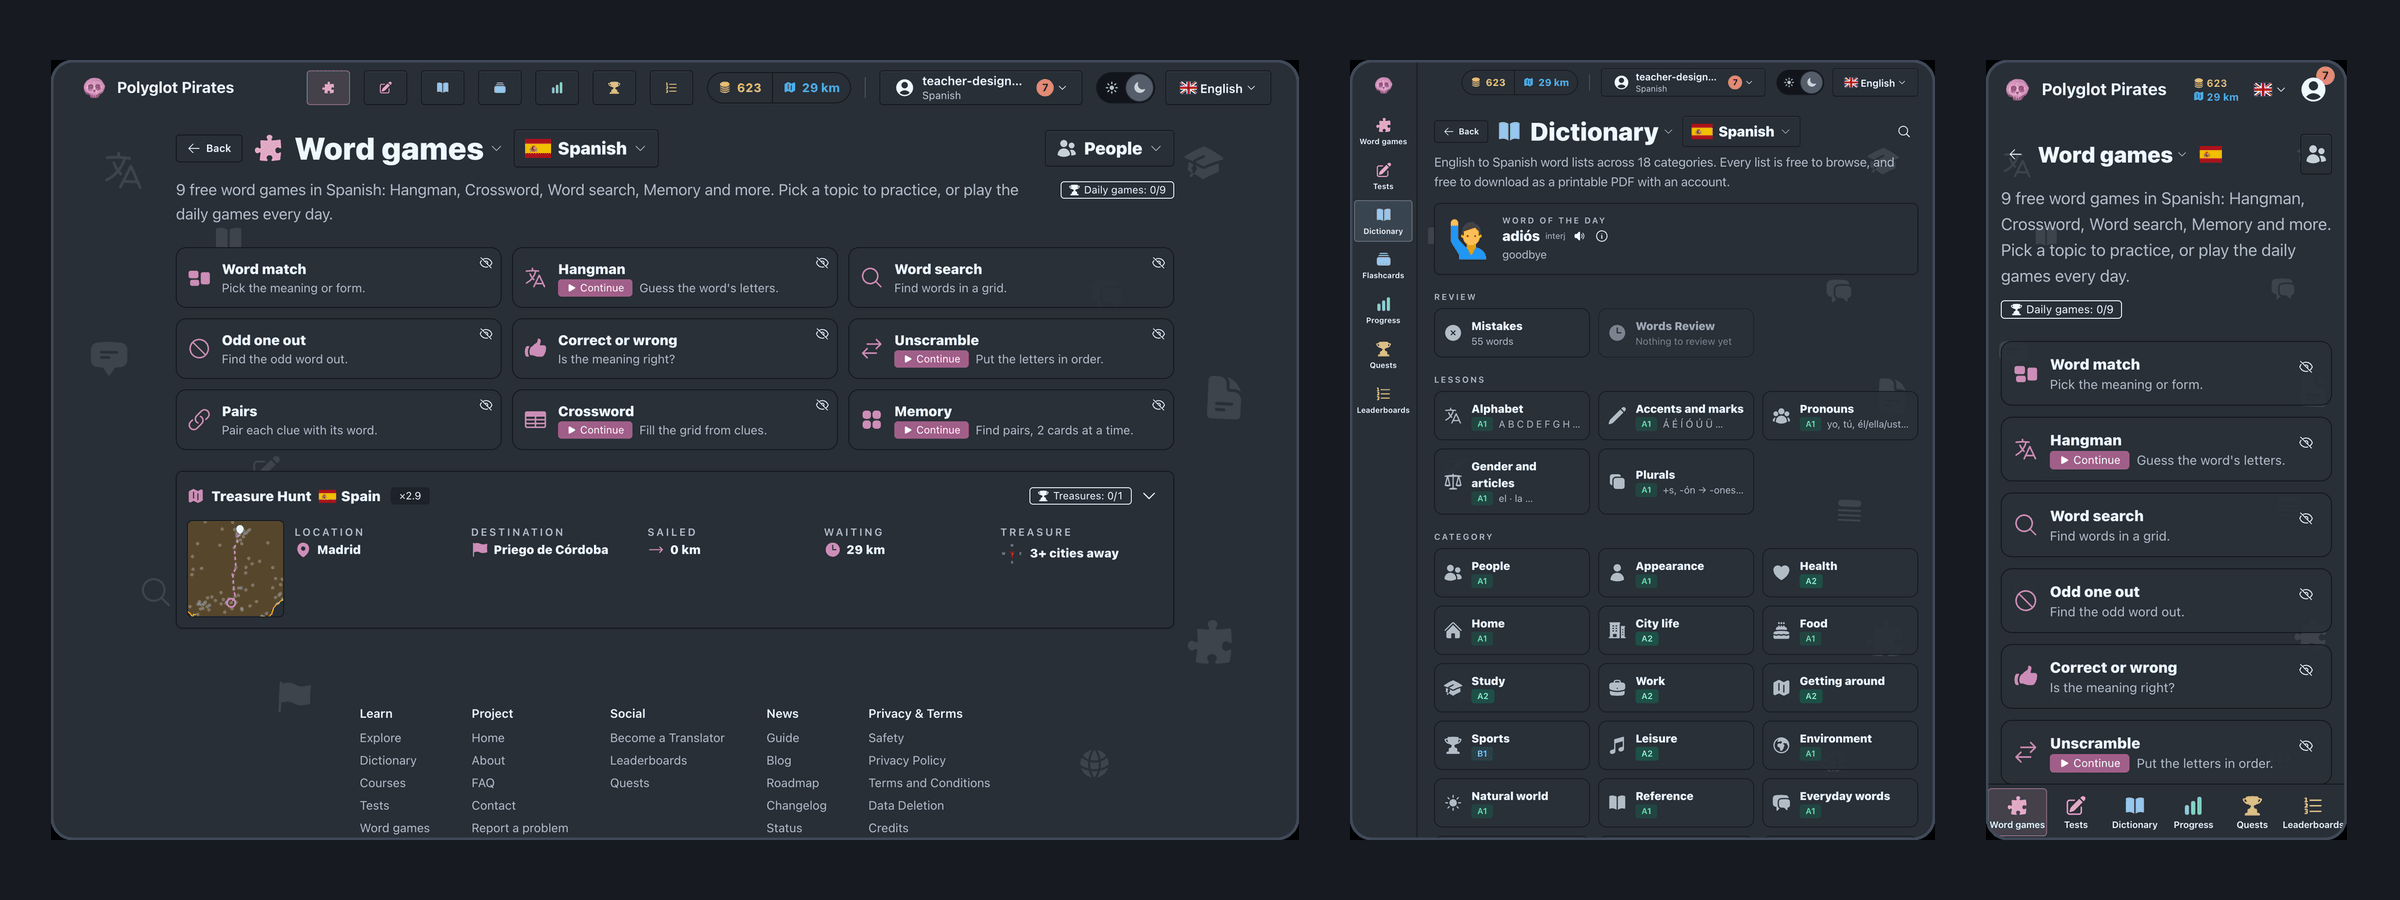
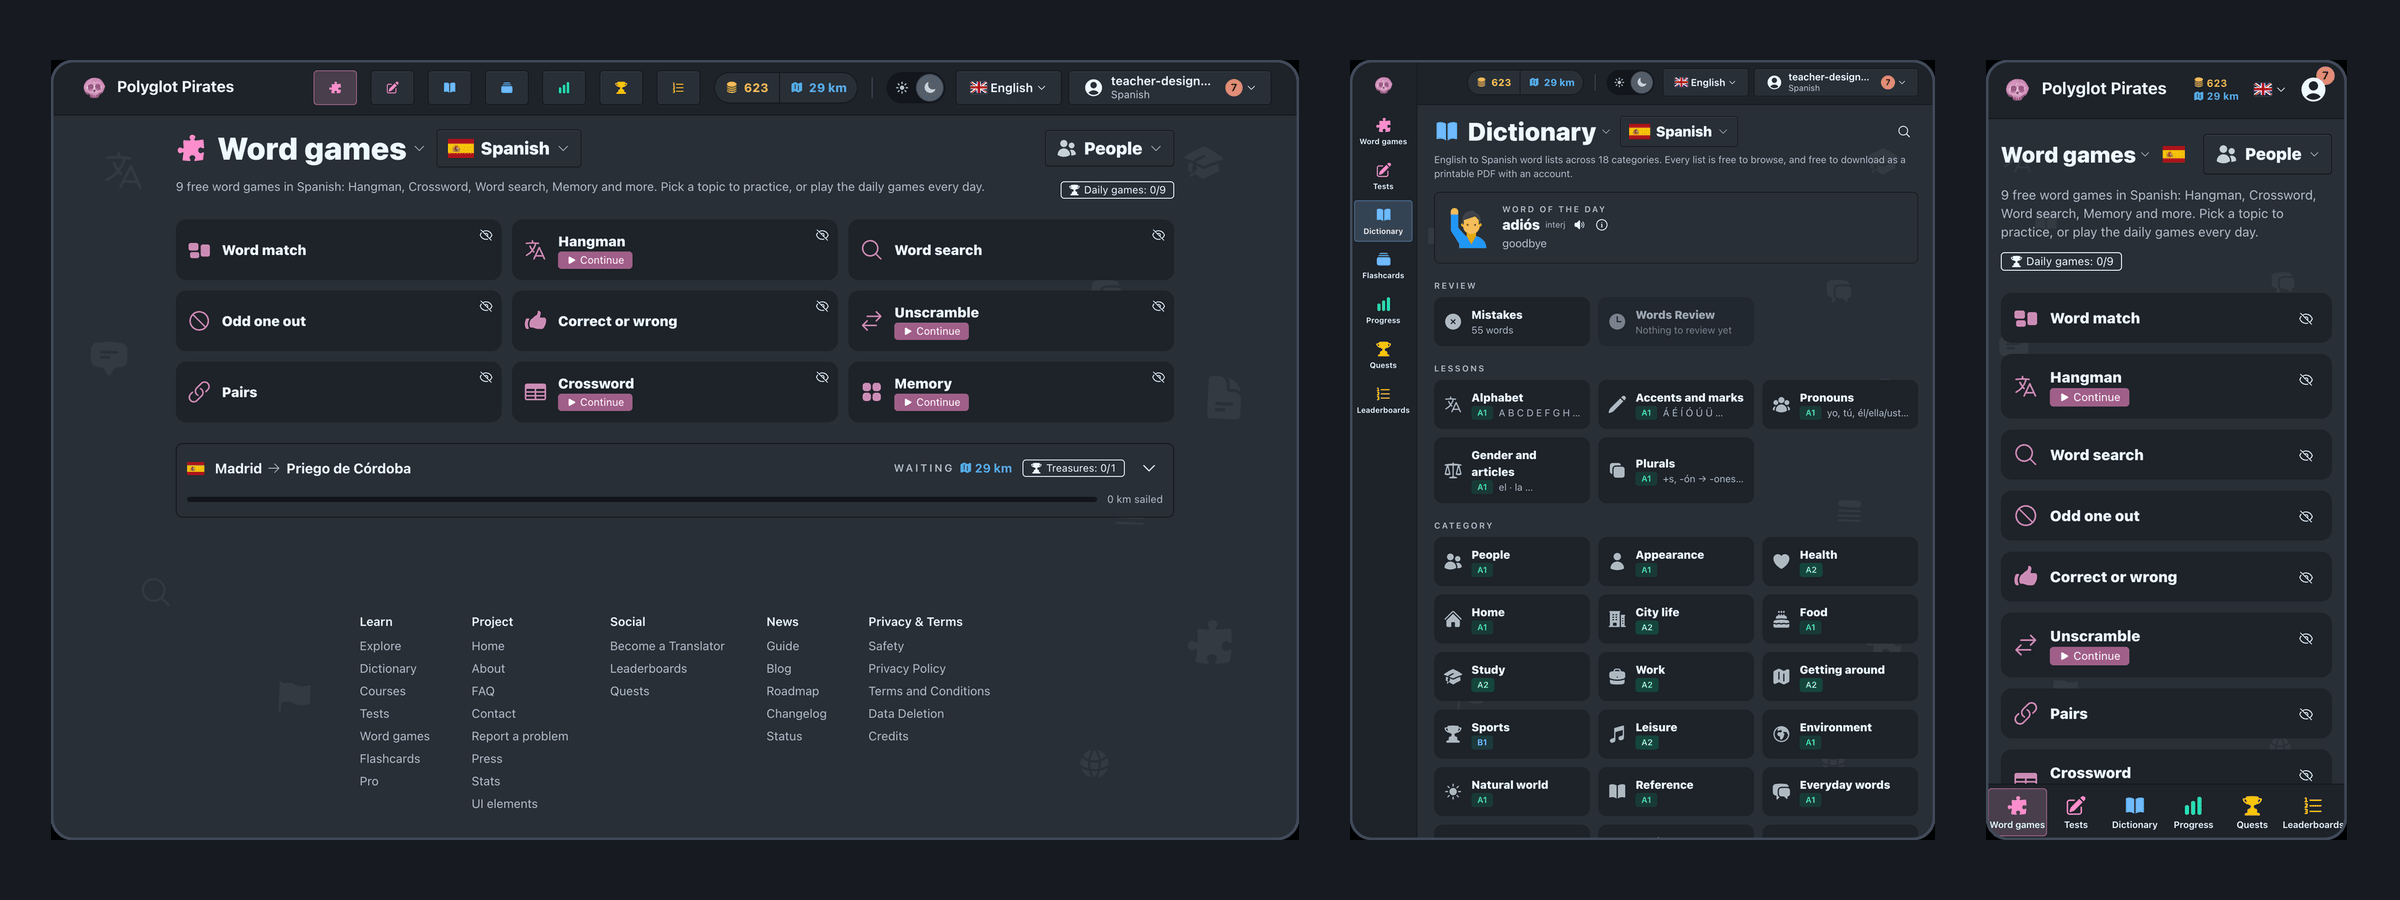
fix CI: lint, dialyzer, tests and the release smoke test
- priv/gettext/theme.pot: drop "News", gone from the navigation.
- GamendHost.Search lists /changelog and /roadmap itself: the theme now
  links them only from the footer, which the palette does not read.
  SearchTest follows the flat navigation.
- UserAuth.remember_me_cookie/1 signs with Plug.Crypto.sign, as
  put_resp_cookie does, instead of a bare %Plug.Conn{} whose nil
  remote_ip broke its type (6 dialyzer warnings in gamend_web). A test
  signs a user in with it.
- DropLobbySnapshots.down recreates the three tables empty, so
  `gamend db.rollback --step 1` in rel/scripts/smoke.sh works again.

fix cicdupd

lint

diff --git a/CHANGELOG.md b/CHANGELOG.md
@@ -2,11 +2,12 @@
 
 - [added] **Results.** What a play leaves: one row per play per player and its events in order (`Gamend.Results`: `start/3`, `record/4`, `finish/1`), pushed to the player's socket as they are written, read over the socket (`results:list`, `results:get`, `results:events`) or `GET /api/v1/results`, with each event key's count and sum at a glance and `/admin/results` to browse them; a guest's results join the account they sign in to. **Hosts:** run the migrations.
 - [added] **A sidebar, link tones and an account menu button.** `navigation.layout: "sidebar"` puts the plain primary links down the page's start edge from `md` up (`HostLayoutNavigation.side_nav/1`): open from `xl`, a rail below it, Collapse remembered per browser (`<html data-side="rail">`); on a phone they are a tab bar along the bottom (`tab_nav/1`), less any marked `"mobile": "hidden"`. `"auto"` keeps them in the bar wherever it fits the window, and shows the sidebar only where it does not (`side` in `<html data-nav>`). A link's `"tone"` colours its icon and the page's own tint from the host's `--nav-tone`; `navigation.menu_button: "account"` opens the menu from the reader's avatar. Presentation pages bleed to `--bleed-w`, the page's width less the sidebar. **Hosts:** declare `Collapse` and `Expand` for translation.
-- [changed] **gamend.org and the `gamend starter` template show the navigation layouts.** Their links are flat, each with a `"tone"` coloured in `theme.css` (Play, Leaderboards, Quests, Tournaments, Groups, Blog, Guides), under `"layout": "auto"` and `"menu_button": "account"`; Changelog and Roadmap are in the footer. **Starter projects:** copy `theme/config.json`'s `navigation` and `static/theme.css` to get the same.
-- [changed] **Log in and Register are two buttons** in the bar wherever it shows, in place of a visitor's Account dropdown; Register is the primary one, Log in on its own page. A guest account gets the same two and no avatar menu in the bar. Where the bar does not fit, a phone always, they stay in the menu.
+- [changed] **gamend.org and the `gamend starter` template show the navigation layouts.** Their links are flat, each with a `"tone"` coloured in `theme.css` (Play, Leaderboards, Quests, Tournaments, Groups, Blog, Guides), under `"layout": "auto"` and `"menu_button": "account"`; Changelog and Roadmap are in the footer, and the search palette still finds them. **Starter projects:** copy `theme/config.json`'s `navigation` and `static/theme.css` to get the same.
+- [changed] **Log in and Register are two buttons** in the bar wherever it shows, in place of a visitor's Account dropdown; Register is the primary one, Log in on its own page. A guest account gets the same two and no avatar menu in the bar. Where the bar does not fit, a phone always, they stay in the menu. They, or the reader's menu, are the bar's last item, after the language; the bar, the sidebar and the tab bar sit on `base-200` with a `base-300` hairline.
 - [changed] **The navbar fits itself.** It measures what it has room for, not the `xl` breakpoint: links spelled out, then as icons (the label as tooltip), then without the reader's name, then the menu. `<html data-nav>` names the stage; each stage's width is kept per language, so the next page draws the right one first.
 - [changed] **Page titles a host can fit to one line.** `page_title/1` carries `heading-title` and `fit-*` classes, and the title rows of core's pages are `data-heading-fit`, so a host that measures a heading row (the stage in the row's `data-heading`) drops the mark and shrinks the words where the row has no room. **Hosts:** without those styles the classes do nothing.
-- [removed] **Lobby snapshots**, their tables, `/admin/lobby_snapshots` and the capture after every hook; results replace them. **Hosts:** drop `GAMEND_LOBBY_SNAPSHOTS_*` and `GAMEND_RETENTION_LOBBY_SNAPSHOTS_*`.
+- [changed] **Quieter pages.** `config :gamend_web, :back_link, false` turns every Back button off, core's pages included, for a host whose navigation is always on screen; `config :gamend_web, :breadcrumb_depth, n` draws the navbar's trail only from `n` crumbs past home (the `BreadcrumbList` markup is unchanged). A panel has no shadow, and the background icon layer is fainter (4% light, 5% dark).
+- [removed] **Lobby snapshots**, their tables, `/admin/lobby_snapshots` and the capture after every hook; results replace them. Rolling the migration back brings the tables back empty. **Hosts:** drop `GAMEND_LOBBY_SNAPSHOTS_*` and `GAMEND_RETENTION_LOBBY_SNAPSHOTS_*`.
 - [added] **Client calls a host app answers.** `config :gamend_core, :host_rpc_modules, %{"name" => MyApp.Rpc}` makes a host module callable as a plugin is (`call_hook` with `plugin: "name"`), from code that is the host's own; a plugin of the same name wins.
 - [added] **Guests keep their progress.** The website makes guest accounts, and a guest who registers or signs in keeps what they did (`Gamend.Accounts.GuestMerge`, the `merge_user_data/2` hook), then returns to the page they came from (`?return_to=`). **Hosts:** implement `merge_user_data/2` for keys both accounts can hold, and pass `?return_to=` instead of setting `:user_return_to`.
 - [added] **Features a guest registers for.** `config :gamend_core, Gamend.AccountRequired, [:quest_claims, :leaderboards]` keeps quest claims and leaderboard places for registered accounts, on the website and the API alike.

diff --git a/priv/docs/60-operations/40-settings.md b/priv/docs/60-operations/40-settings.md
@@ -361,7 +361,7 @@ Live values, and where each one came from, are on the
 | `GAMEND_FEATURES_LIST_LOBBIES` | boolean | `true` | GET /api/v1/lobbies and the "lobbies" channel. |
 | `GAMEND_FEATURES_LIST_MATCHMAKING` | boolean | `true` | GET /api/v1/matchmaking/stats. Own-ticket endpoints stay. |
 | `GAMEND_FEATURES_LIST_PAYMENTS_CATALOG` | boolean | `true` | Public GET /api/v1/payments/catalog: every active product with its provider row, id and price. Off for a host that sells through its own page, where the price shown depends on who asks (a country band) — the listing names every row, cheaper ones included. |
-| `GAMEND_FEATURES_LIST_QUESTS` | boolean | `true` | Public GET /api/v1/quests* and the /quests page. |
+| `GAMEND_FEATURES_LIST_QUESTS` | boolean | `true` | Public GET /api/v1/quests*, the /quests page and the "Quests and rewards" row on the Notifications tab. Achievements are quests of kind `achievement`, so this is them too. |
 | `GAMEND_FEATURES_LIST_TOURNAMENTS` | boolean | `true` | Public GET /api/v1/tournaments* and the /tournaments pages. |
 | `GAMEND_FEATURES_LIST_USERS` | boolean | `true` | GET /api/v1/users and /users/:id. |
 | `GAMEND_FEATURES_LOCALE_FLAGS` | boolean | `true` | National flags in the site-language switcher (the navbar button and each language in its menu). Off, the button shows a language icon and the menu lists the languages by name only — for a host that must not show a flag, a sensitive one or any. Only the switcher: a host's own pages that draw `<.flag>` are untouched. |
